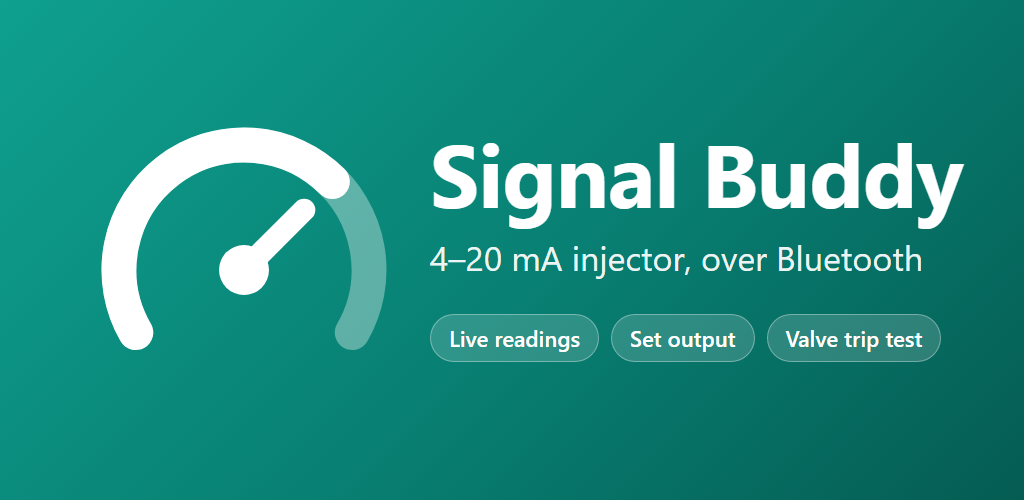
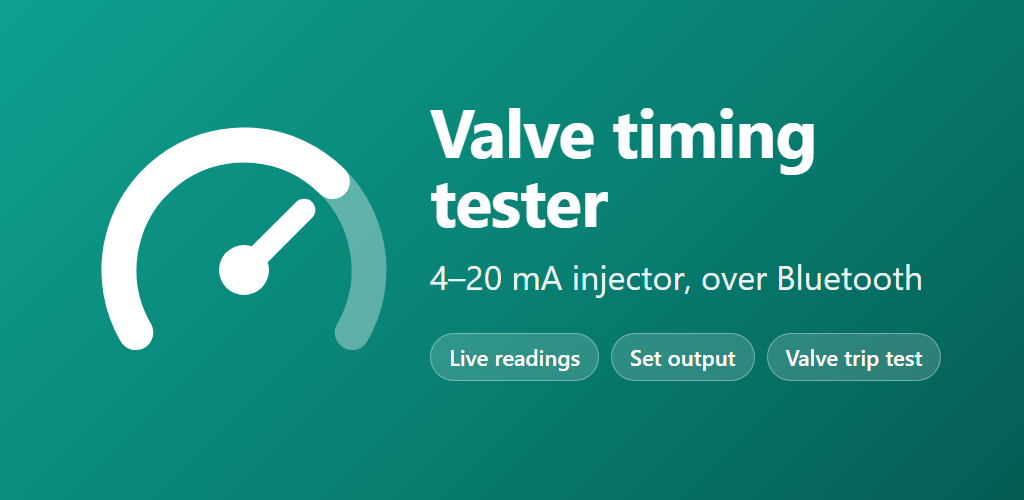
Home page: name the Android app "Valve timing tester"
Its Google Play name. New banner to match the Play feature graphic.
The site header, footer and Signal Buddy Web keep the Signal Buddy name.

Changed region(s): [[0.4062, 0.21, 0.9375, 0.6], [0.4062, 0.63, 0.9375, 0.78]]

diff --git a/index.html b/index.html
@@ -3,8 +3,8 @@
 <head>
 <meta charset="utf-8">
 <meta name="viewport" content="width=device-width, initial-scale=1">
-<title>Signal Buddy</title>
-<meta name="description" content="Signal Buddy: control and test a 4–20 mA loop injector from your Android phone over Bluetooth.">
+<title>Valve timing tester · Signal Buddy</title>
+<meta name="description" content="Valve timing tester: control and test a 4–20 mA loop injector from your Android phone over Bluetooth.">
 <link rel="icon" href="images/icon.png">
 <link rel="stylesheet" href="style.css">
 </head>
@@ -16,11 +16,11 @@
 <main class="wrap">
   <div class="hero">
     <h1>Control and test a <span class="nw">4–20 mA</span> loop from your phone</h1>
-    <p class="lead">Signal Buddy is the Android companion app for the <span class="nw">4–20 mA</span> injector: a small
+    <p class="lead"><strong>Valve timing tester</strong> is the Android companion app for the <span class="nw">4–20 mA</span> injector: a small
     Bluetooth unit that drives a <span class="nw">4–20 mA</span> signal, reads one back, and switches a 24 V solenoid.</p>
   </div>
-  <img class="banner" src="images/banner.png" alt="Signal Buddy: 4–20 mA injector, over Bluetooth. Live readings, set output, valve trip test.">
-  <p class="note"><strong>Hardware needed.</strong> Signal Buddy works only with the <span class="nw">4–20 mA</span>
+  <img class="banner" src="images/banner.png" alt="Valve timing tester: 4–20 mA injector, over Bluetooth. Live readings, set output, valve trip test.">
+  <p class="note"><strong>Hardware needed.</strong> Valve timing tester works only with the <span class="nw">4–20 mA</span>
   injector. It doesn't work on its own or with other Bluetooth devices.</p>
   <section>
     <h2>What it does</h2>
@@ -55,7 +55,7 @@
   </section>
   <section>
     <h2>Privacy</h2>
-    <p>Signal Buddy collects no personal data. It has no account, no ads, no analytics and no
+    <p>Valve timing tester collects no personal data. It has no account, no ads, no analytics and no
     internet access. Read the full <a href="privacy/">privacy policy</a>.</p>
   </section>
 </main>

diff --git a/README.md b/README.md
@@ -1,6 +1,6 @@
 # Signal Buddy website
 
-Public website for the Signal Buddy Android app, served by GitHub Pages at
+Public website for the Signal Buddy Android app (published on Google Play as **Valve timing tester**), served by GitHub Pages at
 https://optimho.github.io/signal-buddy-app/. The privacy policy at
 https://optimho.github.io/signal-buddy-app/privacy/ is the one used for the Google Play
 listing.
